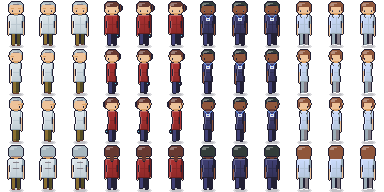
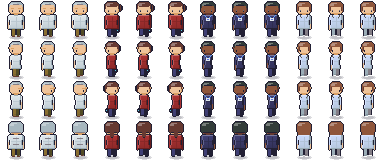
Pull the character height back down
32x48 overshot -- tall enough that the figures read as being on stilts rather than as
adults. Dropped to 32x40 (1.25x the tile, not 1.5x); the head stays the same fixed ~12px,
so the ratio is still less chibi than the original 32x32 sheet, just not as extreme.
FOOT_ANCHOR, HEAD_CLEARANCE and the speech-bubble clearance all move with it.

diff --git a/src/components/SpeechLayer.tsx b/src/components/SpeechLayer.tsx
@@ -3,10 +3,10 @@ import { usePlayerPosition } from '../hooks/usePlayerPosition.ts';
 import { Player as ServerPlayer } from '../../convex/aiTown/player.ts';
 import { ServerGame } from '../hooks/serverGame.ts';
 
-// Clear of the character's head. Sprites are foot-anchored and 48px tall (see
-// Character.tsx / scripts/gen_characters.py) — the head top sits ~43px above the feet, so
+// Clear of the character's head. Sprites are foot-anchored and 40px tall (see
+// Character.tsx / scripts/gen_characters.py) — the head top sits ~34px above the feet, so
 // the bubble needs to clear that plus room for its own tail.
-const BUBBLE_OFFSET_Y = 51;
+const BUBBLE_OFFSET_Y = 42;
 
 function PlayerSpeech({
   game,

diff --git a/src/components/Character.tsx b/src/components/Character.tsx
@@ -102,10 +102,10 @@ export const Character = ({
 };
 
 // Must match FOOT_Y / FRAME_H in scripts/gen_characters.py.
-const FOOT_ANCHOR = 45 / 48;
+const FOOT_ANCHOR = 36 / 40;
 // World-space distance from the feet (the Container's origin) up to the top of the head —
 // FOOT_Y - HEAD_TOP from the same script — used to clear UI drawn above the character.
-const HEAD_CLEARANCE = 45 - 2;
+const HEAD_CLEARANCE = 36 - 2;
 
 /**
  * Thinking / talking indicator.

diff --git a/data/spritesheets/aeCharacters.ts b/data/spritesheets/aeCharacters.ts
@@ -15,7 +15,7 @@ import { SpritesheetData } from './types';
 // its own 32px footprint, which is how top-down RPGs avoid a "chibi standing in a hole"
 // look. See src/components/Character.tsx for the matching anchor.
 const FRAME_W = 32;
-const FRAME_H = 48;
+const FRAME_H = 40;
 const FRAMES_PER_DIR = 3;
 const BLOCK_W = FRAME_W * FRAMES_PER_DIR;
 

diff --git a/scripts/gen_characters.py b/scripts/gen_characters.py
@@ -6,16 +6,16 @@ Replaces the inherited AI Town `32x32folk.png` villagers (anime townsfolk in fan
 dress) with four figures that belong in A&E Bay 3. Drawn in the DawnBringer-32 palette
 that `ae-bay-tileset.png` already uses.
 
-Frame is 32 wide x 48 tall, not the 32x32 "chibi" the sheet started at. Rendered next to
-furniture drawn at roughly one tile per metre, a 32-tall figure (half head, half body) read
-as a toy standing next to real-scale objects. The extra 16 rows go entirely into the torso
-and legs — the head is a fixed ~12px regardless of frame height — which is the standard
-top-down-RPG trick for getting an adult read: the sprite is taller than the tile it stands
-on and is anchored at the feet, so it rises out of its own footprint the way a real person
-would (see src/components/Character.tsx, which anchors on FOOT_Y rather than frame centre).
+Frame is 32 wide x 40 tall, not the 32x32 "chibi" the sheet started at (a 32x48 first pass
+overshot — tall enough to look like the figures were on stilts). The extra 8 rows go
+entirely into the torso and legs — the head is a fixed ~12px regardless of frame height —
+which is the standard top-down-RPG trick for getting an adult read: the sprite is taller
+than the tile it stands on and is anchored at the feet, so it rises out of its own
+footprint the way a real person would, just not by much (see src/components/Character.tsx,
+which anchors on FOOT_Y rather than frame centre).
 
-Sheet layout: one character block is 96w x 192h (3 walk frames across, 4 directions down,
-each 32x48). Blocks left-to-right: ray, kelly, sam, clinician. Sheet = 384 x 192.
+Sheet layout: one character block is 96w x 160h (3 walk frames across, 4 directions down,
+each 32x40). Blocks left-to-right: ray, kelly, sam, clinician. Sheet = 384 x 160.
 
 Run:  python3 scripts/gen_characters.py
 """
@@ -23,7 +23,7 @@ Run:  python3 scripts/gen_characters.py
 from PIL import Image
 
 FRAME_W = 32
-FRAME_H = 48
+FRAME_H = 40
 FRAMES = 3
 DIRS = ['down', 'left', 'right', 'up']
 
@@ -124,9 +124,9 @@ HEAD_TOP = 2
 HEAD_BOT = 13
 NECK_Y = 14
 TORSO_TOP = 15
-TORSO_BOT = 33
-LEG_TOP = 34
-FOOT_Y = 45
+TORSO_BOT = 28
+LEG_TOP = 29
+FOOT_Y = 36
 
 CX = 16   # centre line: a row spans x = CX-h .. CX-1+h
 
@@ -234,7 +234,7 @@ def draw_arms(p, direction, garment, garment_d, skin, sleeve_to, build, swing=0)
     """
     lx, rx = arm_x(direction, build)
     top = TORSO_TOP + 1
-    bot = TORSO_BOT + 2   # longer arms for the taller torso; hands reach past the hip
+    bot = TORSO_BOT + 1   # hands reach to about the hip
     if direction in ('left', 'right'):
         x = lx if direction == 'left' else rx
         for y in range(top + swing, bot + swing):
